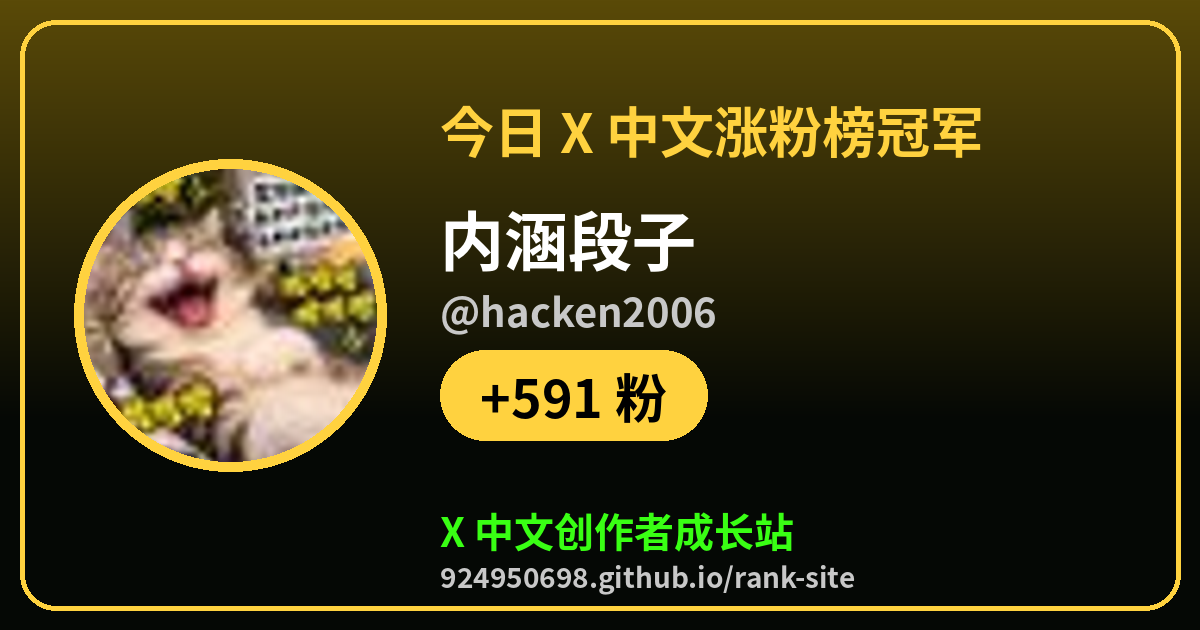
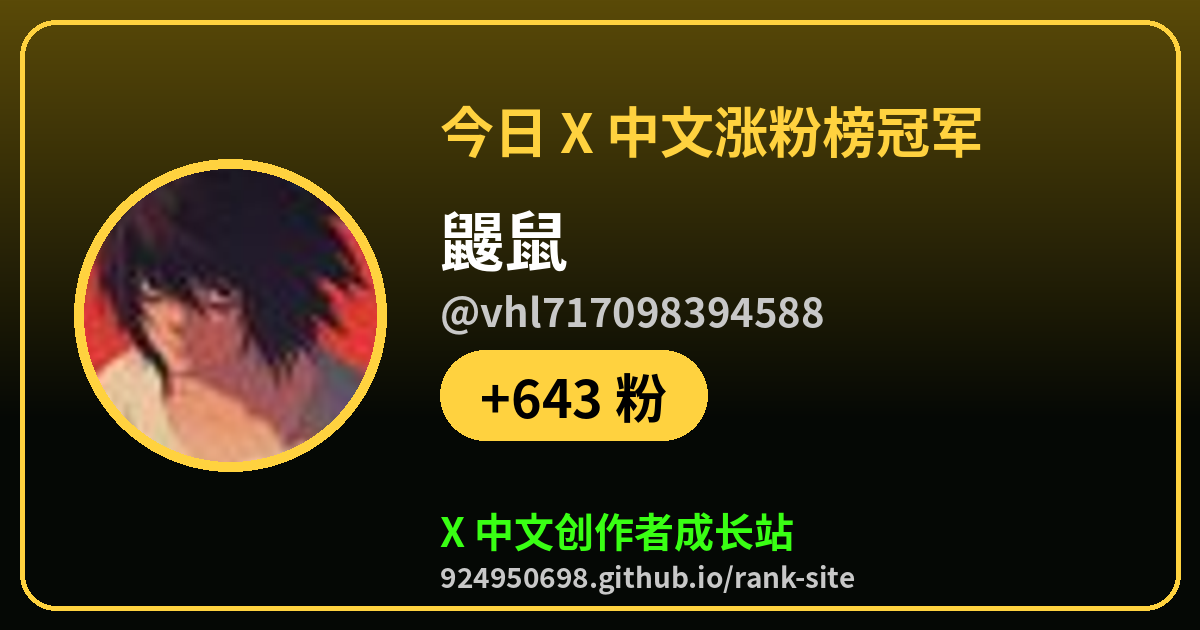
champ: 2026-10-17 15:23 CST

Changed region(s): [[0.0617, 0.2714, 0.3392, 0.754], [0.37, 0.3317, 0.7092, 0.5429], [0.4008, 0.6032, 0.5242, 0.6635]]

diff --git a/champ/rising.html b/champ/rising.html
@@ -1,7 +1,7 @@
 <!doctype html><html lang="zh-CN"><head><meta charset="utf-8"><meta name="viewport" content="width=device-width,initial-scale=1">
-<title>今日 X 中文新号进步榜冠军：banana stome（@Bananastome）</title><meta name="description" content="+267 粉，来看看今天谁在爆，你排第几">
-<meta property="og:type" content="website"><meta property="og:url" content="https://924950698.github.io/rank-site/champ/rising.html"><meta property="og:title" content="今日 X 中文新号进步榜冠军：banana stome（@Bananastome）"><meta property="og:description" content="+267 粉，来看看今天谁在爆，你排第几">
-<meta property="og:image" content="https://924950698.github.io/rank-site/champ/rising.png?v=20261017T0610"><meta name="twitter:card" content="summary_large_image"><meta name="twitter:site" content="@tigerr3aue">
-<meta name="twitter:title" content="今日 X 中文新号进步榜冠军：banana stome（@Bananastome）"><meta name="twitter:description" content="+267 粉，来看看今天谁在爆，你排第几"><meta name="twitter:image" content="https://924950698.github.io/rank-site/champ/rising.png?v=20261017T0610">
-<meta http-equiv="refresh" content="0;url=https://924950698.github.io/rank-site/?champ=Bananastome&amp;board=rising#rank"><script>location.replace("https://924950698.github.io/rank-site/?champ=Bananastome&board=rising#rank")</script></head>
-<body style="background:#000;color:#fff;font-family:sans-serif;text-align:center;padding:40px"><a href="https://924950698.github.io/rank-site/?champ=Bananastome&amp;board=rising#rank" style="color:#39ff14">去 X 中文创作者成长站看冠军卡片</a></body></html>
+<title>今日 X 中文新号进步榜冠军：鼹鼠（@vhl717098394588）</title><meta name="description" content="+643 粉，来看看今天谁在爆，你排第几">
+<meta property="og:type" content="website"><meta property="og:url" content="https://924950698.github.io/rank-site/champ/rising.html"><meta property="og:title" content="今日 X 中文新号进步榜冠军：鼹鼠（@vhl717098394588）"><meta property="og:description" content="+643 粉，来看看今天谁在爆，你排第几">
+<meta property="og:image" content="https://924950698.github.io/rank-site/champ/rising.png?v=20261017T0706"><meta name="twitter:card" content="summary_large_image"><meta name="twitter:site" content="@tigerr3aue">
+<meta name="twitter:title" content="今日 X 中文新号进步榜冠军：鼹鼠（@vhl717098394588）"><meta name="twitter:description" content="+643 粉，来看看今天谁在爆，你排第几"><meta name="twitter:image" content="https://924950698.github.io/rank-site/champ/rising.png?v=20261017T0706">
+<meta http-equiv="refresh" content="0;url=https://924950698.github.io/rank-site/?champ=vhl717098394588&amp;board=rising#rank"><script>location.replace("https://924950698.github.io/rank-site/?champ=vhl717098394588&board=rising#rank")</script></head>
+<body style="background:#000;color:#fff;font-family:sans-serif;text-align:center;padding:40px"><a href="https://924950698.github.io/rank-site/?champ=vhl717098394588&amp;board=rising#rank" style="color:#39ff14">去 X 中文创作者成长站看冠军卡片</a></body></html>

diff --git a/champ/growth.html b/champ/growth.html
@@ -1,7 +1,7 @@
 <!doctype html><html lang="zh-CN"><head><meta charset="utf-8"><meta name="viewport" content="width=device-width,initial-scale=1">
-<title>今日 X 中文涨粉榜冠军：内涵段子（@hacken2006）</title><meta name="description" content="+591 粉，来看看今天谁在爆，你排第几">
-<meta property="og:type" content="website"><meta property="og:url" content="https://924950698.github.io/rank-site/champ/growth.html"><meta property="og:title" content="今日 X 中文涨粉榜冠军：内涵段子（@hacken2006）"><meta property="og:description" content="+591 粉，来看看今天谁在爆，你排第几">
-<meta property="og:image" content="https://924950698.github.io/rank-site/champ/growth.png?v=20261017T0610"><meta name="twitter:card" content="summary_large_image"><meta name="twitter:site" content="@tigerr3aue">
-<meta name="twitter:title" content="今日 X 中文涨粉榜冠军：内涵段子（@hacken2006）"><meta name="twitter:description" content="+591 粉，来看看今天谁在爆，你排第几"><meta name="twitter:image" content="https://924950698.github.io/rank-site/champ/growth.png?v=20261017T0610">
-<meta http-equiv="refresh" content="0;url=https://924950698.github.io/rank-site/?champ=hacken2006&amp;board=growth#rank"><script>location.replace("https://924950698.github.io/rank-site/?champ=hacken2006&board=growth#rank")</script></head>
-<body style="background:#000;color:#fff;font-family:sans-serif;text-align:center;padding:40px"><a href="https://924950698.github.io/rank-site/?champ=hacken2006&amp;board=growth#rank" style="color:#39ff14">去 X 中文创作者成长站看冠军卡片</a></body></html>
+<title>今日 X 中文涨粉榜冠军：鼹鼠（@vhl717098394588）</title><meta name="description" content="+643 粉，来看看今天谁在爆，你排第几">
+<meta property="og:type" content="website"><meta property="og:url" content="https://924950698.github.io/rank-site/champ/growth.html"><meta property="og:title" content="今日 X 中文涨粉榜冠军：鼹鼠（@vhl717098394588）"><meta property="og:description" content="+643 粉，来看看今天谁在爆，你排第几">
+<meta property="og:image" content="https://924950698.github.io/rank-site/champ/growth.png?v=20261017T0706"><meta name="twitter:card" content="summary_large_image"><meta name="twitter:site" content="@tigerr3aue">
+<meta name="twitter:title" content="今日 X 中文涨粉榜冠军：鼹鼠（@vhl717098394588）"><meta name="twitter:description" content="+643 粉，来看看今天谁在爆，你排第几"><meta name="twitter:image" content="https://924950698.github.io/rank-site/champ/growth.png?v=20261017T0706">
+<meta http-equiv="refresh" content="0;url=https://924950698.github.io/rank-site/?champ=vhl717098394588&amp;board=growth#rank"><script>location.replace("https://924950698.github.io/rank-site/?champ=vhl717098394588&board=growth#rank")</script></head>
+<body style="background:#000;color:#fff;font-family:sans-serif;text-align:center;padding:40px"><a href="https://924950698.github.io/rank-site/?champ=vhl717098394588&amp;board=growth#rank" style="color:#39ff14">去 X 中文创作者成长站看冠军卡片</a></body></html>

diff --git a/champ/exposure.html b/champ/exposure.html
@@ -1,7 +1,7 @@
 <!doctype html><html lang="zh-CN"><head><meta charset="utf-8"><meta name="viewport" content="width=device-width,initial-scale=1">
 <title>今日 X 中文曝光榜冠军：可乐33（@cokeoysters）</title><meta name="description" content="4.7万 曝光，来看看今天谁在爆，你排第几">
 <meta property="og:type" content="website"><meta property="og:url" content="https://924950698.github.io/rank-site/champ/exposure.html"><meta property="og:title" content="今日 X 中文曝光榜冠军：可乐33（@cokeoysters）"><meta property="og:description" content="4.7万 曝光，来看看今天谁在爆，你排第几">
-<meta property="og:image" content="https://924950698.github.io/rank-site/champ/exposure.png?v=20261017T0610"><meta name="twitter:card" content="summary_large_image"><meta name="twitter:site" content="@tigerr3aue">
-<meta name="twitter:title" content="今日 X 中文曝光榜冠军：可乐33（@cokeoysters）"><meta name="twitter:description" content="4.7万 曝光，来看看今天谁在爆，你排第几"><meta name="twitter:image" content="https://924950698.github.io/rank-site/champ/exposure.png?v=20261017T0610">
+<meta property="og:image" content="https://924950698.github.io/rank-site/champ/exposure.png?v=20261017T0706"><meta name="twitter:card" content="summary_large_image"><meta name="twitter:site" content="@tigerr3aue">
+<meta name="twitter:title" content="今日 X 中文曝光榜冠军：可乐33（@cokeoysters）"><meta name="twitter:description" content="4.7万 曝光，来看看今天谁在爆，你排第几"><meta name="twitter:image" content="https://924950698.github.io/rank-site/champ/exposure.png?v=20261017T0706">
 <meta http-equiv="refresh" content="0;url=https://924950698.github.io/rank-site/?champ=cokeoysters&amp;board=exposure#rank"><script>location.replace("https://924950698.github.io/rank-site/?champ=cokeoysters&board=exposure#rank")</script></head>
 <body style="background:#000;color:#fff;font-family:sans-serif;text-align:center;padding:40px"><a href="https://924950698.github.io/rank-site/?champ=cokeoysters&amp;board=exposure#rank" style="color:#39ff14">去 X 中文创作者成长站看冠军卡片</a></body></html>

diff --git a/champ/comments.html b/champ/comments.html
@@ -1,7 +1,7 @@
 <!doctype html><html lang="zh-CN"><head><meta charset="utf-8"><meta name="viewport" content="width=device-width,initial-scale=1">
 <title>今日 X 中文评论榜冠军：水Lane💧（@VentLane）</title><meta name="description" content="168 评论，来看看今天谁在爆，你排第几">
 <meta property="og:type" content="website"><meta property="og:url" content="https://924950698.github.io/rank-site/champ/comments.html"><meta property="og:title" content="今日 X 中文评论榜冠军：水Lane💧（@VentLane）"><meta property="og:description" content="168 评论，来看看今天谁在爆，你排第几">
-<meta property="og:image" content="https://924950698.github.io/rank-site/champ/comments.png?v=20261017T0610"><meta name="twitter:card" content="summary_large_image"><meta name="twitter:site" content="@tigerr3aue">
-<meta name="twitter:title" content="今日 X 中文评论榜冠军：水Lane💧（@VentLane）"><meta name="twitter:description" content="168 评论，来看看今天谁在爆，你排第几"><meta name="twitter:image" content="https://924950698.github.io/rank-site/champ/comments.png?v=20261017T0610">
+<meta property="og:image" content="https://924950698.github.io/rank-site/champ/comments.png?v=20261017T0706"><meta name="twitter:card" content="summary_large_image"><meta name="twitter:site" content="@tigerr3aue">
+<meta name="twitter:title" content="今日 X 中文评论榜冠军：水Lane💧（@VentLane）"><meta name="twitter:description" content="168 评论，来看看今天谁在爆，你排第几"><meta name="twitter:image" content="https://924950698.github.io/rank-site/champ/comments.png?v=20261017T0706">
 <meta http-equiv="refresh" content="0;url=https://924950698.github.io/rank-site/?champ=VentLane&amp;board=comments#rank"><script>location.replace("https://924950698.github.io/rank-site/?champ=VentLane&board=comments#rank")</script></head>
 <body style="background:#000;color:#fff;font-family:sans-serif;text-align:center;padding:40px"><a href="https://924950698.github.io/rank-site/?champ=VentLane&amp;board=comments#rank" style="color:#39ff14">去 X 中文创作者成长站看冠军卡片</a></body></html>
